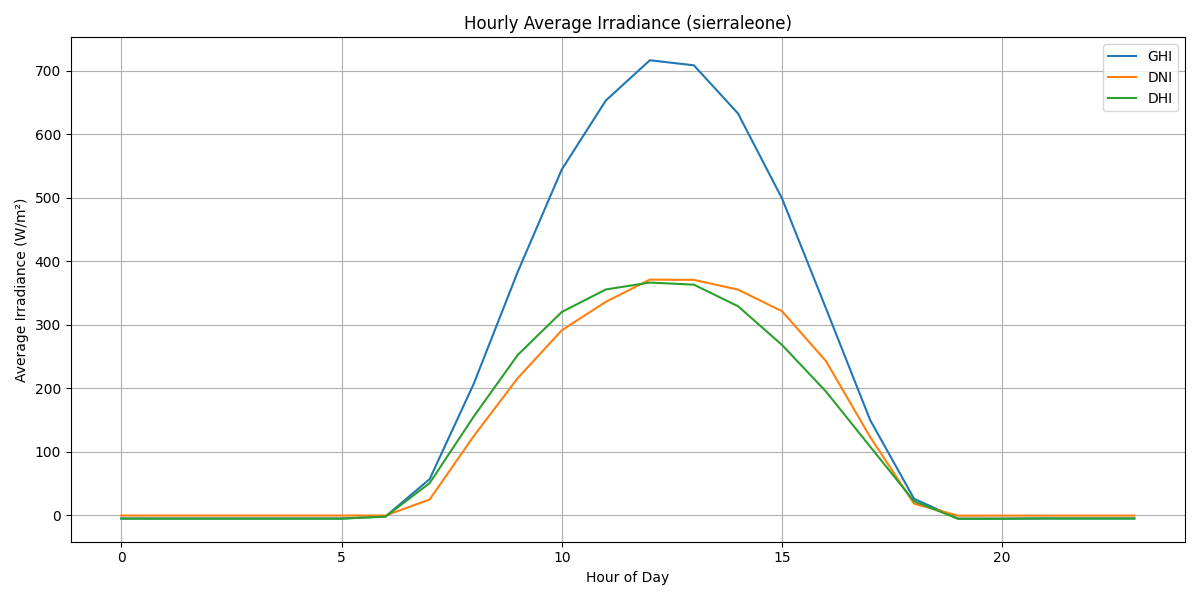
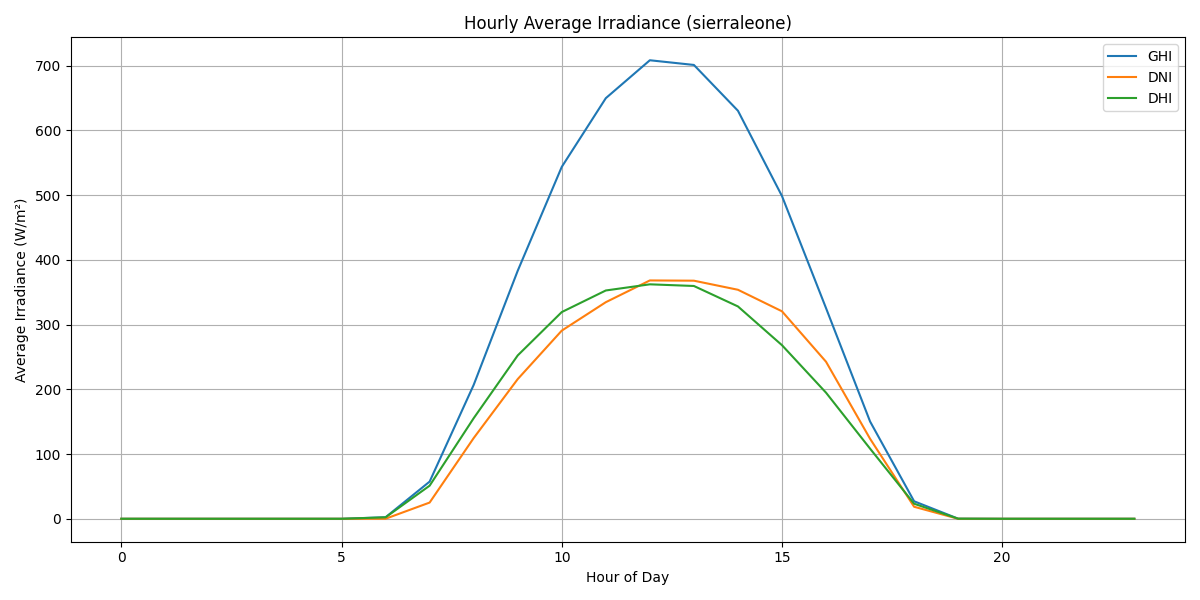
task:cleaning negatives

diff --git a/analysis/eda.py b/analysis/eda.py
@@ -35,6 +35,11 @@ def perform_eda(csv_file, country, output_dir='scripts'):
     # Impute missing values with median for key columns
     for col in numeric_cols:
         df[col] = df[col].fillna(df[col].median())
+
+    irradiance_cols = ['GHI', 'DNI', 'DHI']
+    for col in irradiance_cols:
+      if col in df.columns:
+        df[col] = df[col].clip(lower=0)
     
     # Export cleaned data
     cleaned_csv = f'data/{country}_clean.csv'
